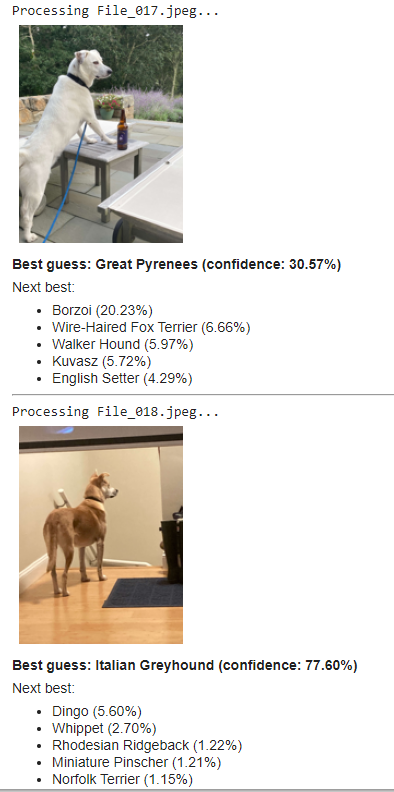
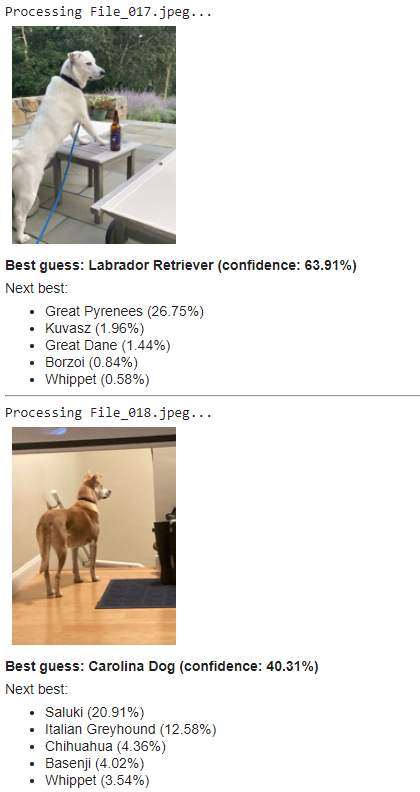
Updated transforms, deeper network
- Added batch augmentations back in. They were accidentally removed in the last model run when switching to the Resize method of padding
- Switch back to RandomResizedCrop because I was concerned that by just using the zero-padding version of Resize, the augmentations in the training set, like rotations, would make training images with large tilted blocks of black area that are not present in the validation set or test images
- used a larger ResNet (ResNet50), training only for 4 epochs (+3 frozen) after examining the validation loss

Changed region(s): [[0.0, 0.0, 1.0, 1.0]]

diff --git a/README.md b/README.md
@@ -11,10 +11,23 @@ The holdout set was evaluated on the final model, given a test set accuracy of 5
 
 Finally, I used the trained model to make predictions of breeds on dogs that I know, as well as the top 5 after the best guess.
 
-Future work:
-* run model with explicit normalization of images (should be already baked-in, but worth testing)
+Some dog names in the Stanford dataset were renamed based on their names in the AKC.
+* Airedale → Airedale Terrier
+* Basset → Basset Hound
+* Boston bull → Boston Terrier
+* Cairn → Cairn Terrier
+* Cardigan → Cardigan Welsh Corgi
+* Chow → Chow Chow
+* Dingo → Carolina Dog
+* Entlebucher → Entlebucher Mountain Dog
+* Pekinese → Pekingese
+* Pembroke → Pembroke Welsh Corgi
+* Scotch terrier → Scottish terrier
+---
+## Future work:
 * add images for dog breeds not in the stanford dogs dataset
 * add a nearest neighbors analysis to find the nearest dog images in the dataset, based on the CNN's last-layer embedding (before the FC layer)
 * an object detection model using the bounding boxes given in the Stanford dogs dataset
-
+---
+## Output
 ![example of classification](example.png)
